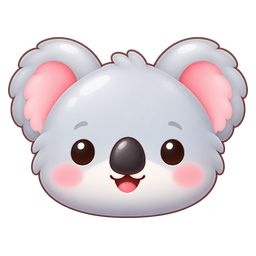
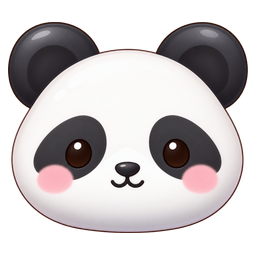
feat: add zodiac pets and local WeChat development

diff --git a/minigame/assets/scripts/StarIsle.ts b/minigame/assets/scripts/StarIsle.ts
@@ -163,6 +163,7 @@ export class StarIsle extends Component {
         if (this.networkBusy || !MODES.some(m => m.id === mode)) return;
         if (!this.onlineReady) { this.toast('正在准备冒险，请稍等一下'); return; }
         if (entry === 'campaign' && !this.online) { this.toast('闯关关卡准备中，先体验首页三种玩法吧'); return; }
+        if (entry === 'campaign' && typeof wx === 'undefined') { this.toast('闯关模式请在微信中体验'); return; }
         this.selectedEntry = entry;
         this.practice = entry === 'standard' && (!this.online || typeof wx === 'undefined');
         this.save = this.practice ? this.localSave : this.cloudSave;
@@ -222,7 +223,7 @@ export class StarIsle extends Component {
         P.text(m, 'Intro', '选择玩法，从第一关连续出发', 360, 420, 25, C.ink, 550, true);
         MODES.forEach((mode, index) => {
             const b = P.button(m, `Campaign-${mode.id}`, mode.title, 360, 570 + index * 175, 510, 112, () => this.beginMode(mode.id, 'campaign'), index !== 1, 34);
-            P.sprite(b, 'Pet', this.frames[[0, 1, 3][index]], -202, -4, 66, 66);
+            P.sprite(b, 'Pet', this.frames[[9, 12, 3][index]], -202, -4, 66, 66);
             P.text(m, `Rule-${mode.id}`, mode.shortRule, 360, 642 + index * 175, 21, C.muted, 540);
         });
         P.text(m, 'CampaignNote', this.online ? '一关接一关，挑战更多萌宠棋盘' : '闯关关卡准备中 · 首页玩法可直接体验', 360, 1160, 21, C.muted, 570);
@@ -628,7 +629,7 @@ export class StarIsle extends Component {
         const rows = [
             ['三种玩法，一起开玩', '经典三消、极限四消、趣味规则消现已开放'],
             ['一口气，连闯两关', '从第一关直接开始，过关后自动进入第二关'],
-            ['15 位萌宠来报到', '狐狸、绵羊、企鹅、仓鼠、考拉和大象加入冒险'],
+            ['十二生肖来报到', '和猫、熊猫、狮子一起，15 位萌宠陪你冒险'],
             ['四种道具，帮你过关', '撤回、铲出、提示和顺时针转动重排'],
         ];
         rows.forEach(([title, detail], i) => { const y = 580 + i * 130; P.text(m, 'NewsTitle', title, 360, y, 27, C.ink, 540, true); P.text(m, 'NewsDetail', detail, 360, y + 45, 20, C.muted, 550); });
@@ -636,7 +637,7 @@ export class StarIsle extends Component {
     }
     private showAlbum(): void {
         const m = this.dialog('Album', '萌宠图鉴', 1110);
-        P.text(m, 'Subtitle', '15 位可爱的小伙伴，等你一起冒险', 360, 382, 24, C.ink, 560, true);
+        P.text(m, 'Subtitle', '十二生肖 + 猫、熊猫、狮子', 360, 382, 24, C.ink, 560, true);
         for (let i = 0; i < this.frames.length; i++) {
             const x = 180 + i % 3 * 180, y = 475 + Math.floor(i / 3) * 151;
             P.skin(m, `PetCard${i}`, 'tile', x, y, 105, 110);

diff --git a/minigame/assets/scripts/core/MatchGame.ts b/minigame/assets/scripts/core/MatchGame.ts
@@ -15,7 +15,8 @@ export const LEVELS: Level[] = [
     { id: 2, title: '高手挑战', subtitle: '先看下层，再做选择', kinds: 15, total: 108 },
 ];
 export const CAPACITY = 7, RESERVE_CAPACITY = 7, TILE_W = 94, TILE_H = 98;
-export const KIND_NAMES = ['小黄啾', '蓝莓喵', '奶糖汪', '棉花兔', '青团蛙', '桃桃猪', '葡萄鸮', '团团熊', '小狮宝', '蜜橘狐', '棉花羊', '豆豆企鹅', '布丁鼠', '抱抱考拉', '紫芋象'];
+// Kind IDs follow the twelve zodiac animals, then cat, panda and lion.
+export const KIND_NAMES = ['鼠', '牛', '虎', '兔', '龙', '蛇', '马', '羊', '猴', '鸡', '狗', '猪', '猫', '熊猫', '狮子'];
 export interface PickResult { tile: Tile; displayTray: number[]; matched: number[]; insertion: number; source: 'board' | 'reserve'; }
 interface Snapshot { tiles: Tile[]; tray: number[]; reserve: number[]; matches: number; cleared: number; moves: number; status: GameStatus; }
 export function randomSource(seed: number): () => number {

diff --git a/admin/src/game-api.ts b/admin/src/game-api.ts
@@ -8,21 +8,21 @@ export const modeNames: Record<Mode, string> = {
   fun: '趣味规则消',
 };
 export const petNames = [
-  '小黄啾',
-  '蓝莓喵',
-  '奶糖汪',
-  '棉花兔',
-  '青团蛙',
-  '桃桃猪',
-  '葡萄鸮',
-  '团团熊',
-  '小狮宝',
-  '蜜橘狐',
-  '棉花羊',
-  '豆豆企鹅',
-  '布丁鼠',
-  '抱抱考拉',
-  '紫芋象',
+  '鼠',
+  '牛',
+  '虎',
+  '兔',
+  '龙',
+  '蛇',
+  '马',
+  '羊',
+  '猴',
+  '鸡',
+  '狗',
+  '猪',
+  '猫',
+  '熊猫',
+  '狮子',
 ];
 export const toolNames: Record<string, string> = {
   undo: '撤回',

diff --git a/README.md b/README.md
@@ -48,7 +48,9 @@ make build-wechat
 
 小游戏使用 `wx.login` 得到临时 code，服务端调用微信 `jscode2session`，按 OpenID 自动创建或更新同一用户。客户端不能提交 OpenID 或自己的余额，服务端也不接受模拟微信身份。没有 AppSecret 时真实微信登录返回明确的未配置提示。
 
-`minigame/assets/resources/online.json` 默认接口为空，可继续离线练习。配置接口后微信自动登录、同步资产并读取已发布关卡；网页仍可进入离线练习。离线存档与联网资产分开，离线获得的金币不会写入服务器。本次自动化测试通过隔离测试 API 模拟微信 code 交换，不代表已经完成真实手机微信登录。
+`minigame/assets/resources/online.json` 当前使用 `http://127.0.0.1:8080/api/v1`，供同一台电脑上的微信开发者工具联调。微信会自动登录、同步资产并读取已发布关卡；普通网页没有 `wx.login`，首页三种玩法仍可离线练习。离线存档与联网资产分开，离线获得的金币不会写入服务器。手机上的 `127.0.0.1` 指向手机自身，真机联调需改用手机可访问的服务地址。自动化测试使用隔离测试 API 模拟微信 code 交换，不代表真实微信登录已验证。
+
+使用 `make build-wechat` 构建时，若接口为本机回环地址，会在生成的开发者工具项目中关闭本地域名校验；换成非本机地址并重新构建时会恢复校验。该设置不改变微信正式运行环境的域名要求。
 
 ## 当前功能
 
